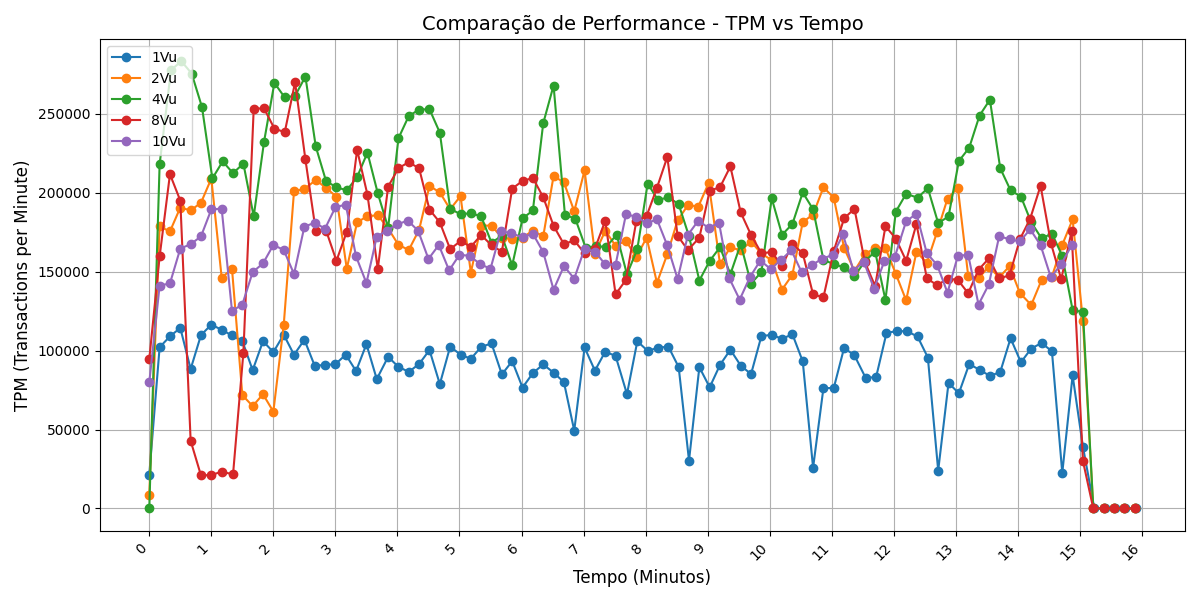
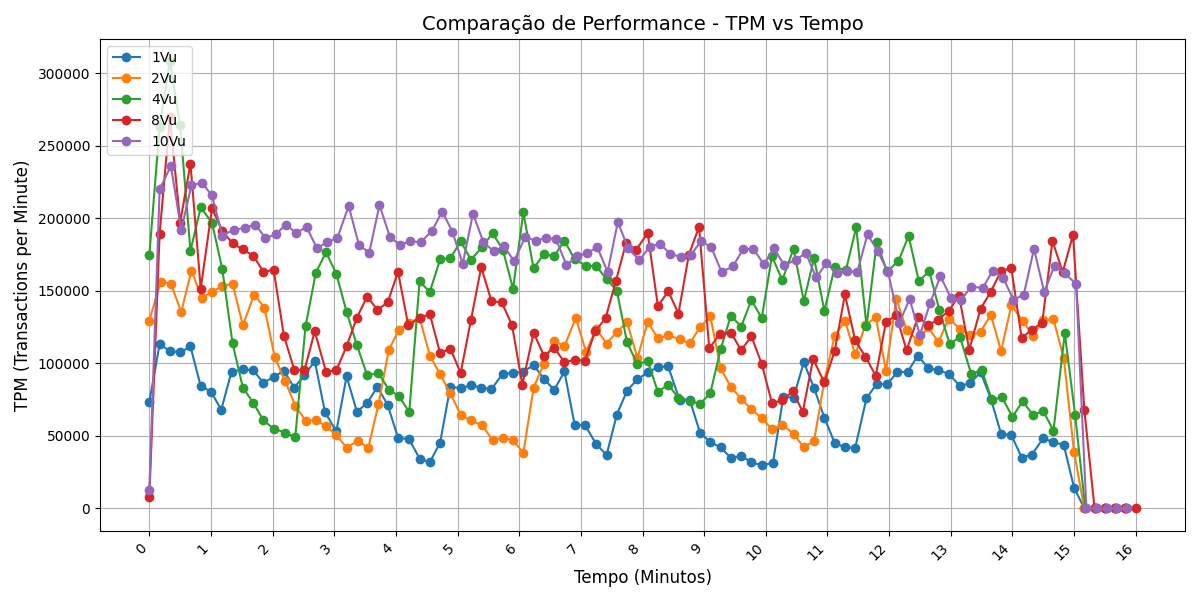
all graphs

diff --git a/scripts/script_my.py b/scripts/script_my.py
@@ -119,13 +119,13 @@ def generate_comparison_plot(times_list, tpm_list, files, output_filename):
     plt.show()
 
 # Caminhos para os arquivos JSON de exemplo (substitua com os seus arquivos reais)
-files = [
-     './results/rui/testA_my_1Vu_5Wh.json',
-     './results/rui/testA_my_2Vu_10Wh.json',
-     './results/rui/testA_my_4Vu_20Wh.json',
-     './results/rui/testA_my_8Vu_40Wh.json',
-     './results/rui/testA_my_10Vu_50Wh.json'
-]
+# files = [
+#      './results/rui/testA_my_1Vu_5Wh.json',
+#      './results/rui/testA_my_2Vu_10Wh.json',
+#      './results/rui/testA_my_4Vu_20Wh.json',
+#      './results/rui/testA_my_8Vu_40Wh.json',
+#      './results/rui/testA_my_10Vu_50Wh.json'
+# ]
 # files = [
 #     './results/francisco/testA_my_1Vu_5Wh.json',
 #     './results/francisco/testA_my_2Vu_10Wh.json',
@@ -136,13 +136,13 @@ files = [
 
 #TODO: FALTA TROCAR AQUI O TEST_B
 
-# files = [
-#     './results/francisco/testC_my_1Vu_5Wh.json',
-#     './results/francisco/testC_my_2Vu_10Wh.json',
-#     './results/francisco/testB_my_4Vu_20Wh.json',
-#     './results/francisco/testC_my_8Vu_40Wh.json',
-#     './results/francisco/testC_my_10Vu_50Wh.json'
-# ]
+files = [
+     './results/rui/testC_my_1Vu_5Wh.json',
+     './results/rui/testC_my_2Vu_10Wh.json',
+     './results/rui/testC_my_4Vu_20Wh.json',
+     './results/rui/testC_my_8Vu_40Wh.json',
+     './results/rui/testC_my_10Vu_50Wh.json'
+ ]
 
 
 

diff --git a/scripts/script_pg.py b/scripts/script_pg.py
@@ -121,11 +121,11 @@ def generate_comparison_plot(times_list, tpm_list, files, output_filename):
 
 # Caminhos para os arquivos JSON de exemplo (substitua com os seus arquivos reais)
 files = [
-    './results/francisco/testB_pg_1Vu_5Wh.json',
-    './results/francisco/testB_pg_2Vu_10Wh.json',
-    './results/francisco/testB_pg_4Vu_20Wh.json',
-    './results/francisco/testB_pg_8Vu_40Wh.json',
-    './results/francisco/testB_pg_10Vu_50Wh.json'
+    './results/rui/testC_pg_1Vu_5Wh.json',
+    './results/rui/testC_pg_2Vu_10Wh.json',
+    './results/rui/testC_pg_4Vu_20Wh.json',
+    './results/rui/testC_pg_8Vu_40Wh.json',
+    './results/rui/testC_pg_10Vu_50Wh.json'
 ]
 
 
@@ -142,4 +142,4 @@ for file in files:
     tpm_list.append(tpm)
 
 # Gerar e exibir o gráfico de comparação, e salvar na pasta 'graphs'
-generate_comparison_plot(times_list, tpm_list, files, 'testB_pg_comparison')
+generate_comparison_plot(times_list, tpm_list, files, 'testC_pg_comparison')
